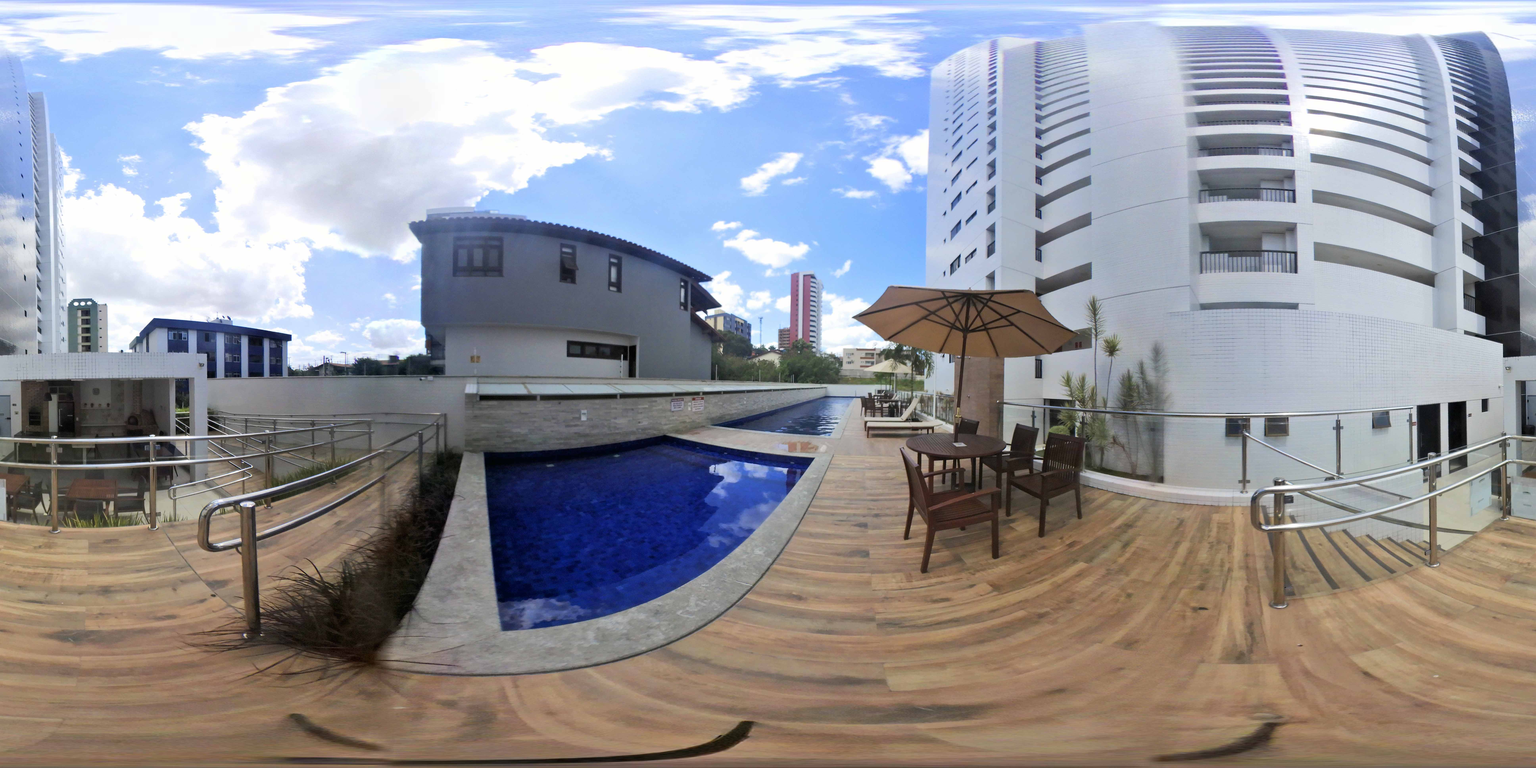
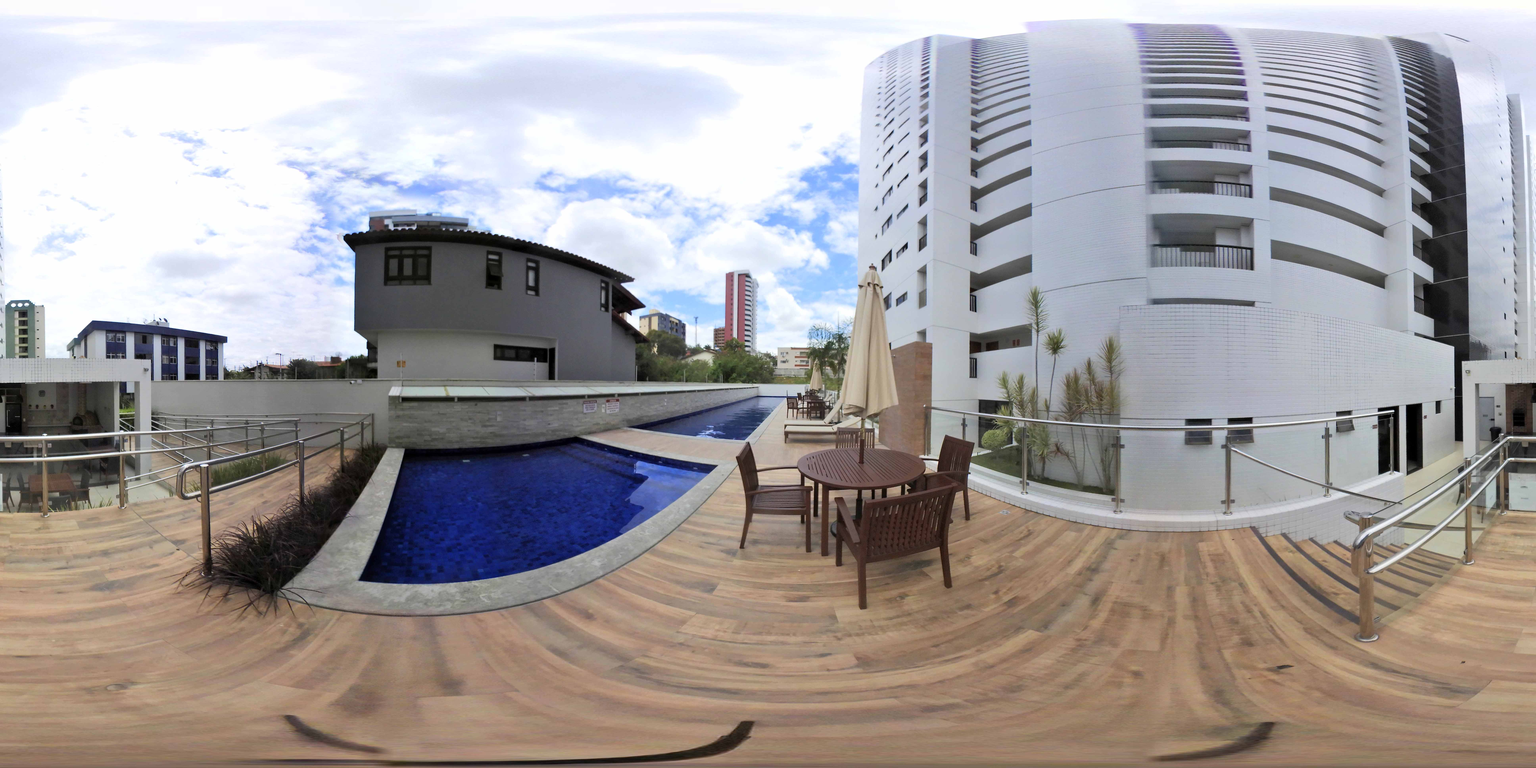
Final Commit

diff --git a/index.html b/index.html
@@ -365,7 +365,7 @@
 
     <!--Cena Piscina-->
     <a-entity class="cena" id="cenaPiscina" visible="false">
-      <a-sky src="#Piscina_1" radius="50" rotation="0 30 0"></a-sky>
+      <a-sky src="#Piscina_1" radius="50" rotation="0 20 0"></a-sky>
 
       <!--Ponto para Churrasqueira-->
       <a-entity position="5 1 -1" look-at="#cam" geometry="primitive: plane; width: 0.5; height: 0.5"
@@ -389,32 +389,32 @@
 
     <!--Cena Piscina Grande-->
     <a-entity class="cena" id="cenaPiscinaGrande" visible="false">
-      <a-sky src="#Piscina_2" radius="50" rotation="0 -90 0"></a-sky>
+      <a-sky src="#Piscina_2" radius="50" rotation="0 -130 0"></a-sky>
 
       <!--Ponto para Entrada Piscina-->
-      <a-entity position="6 1 -1" look-at="#cam">
-        <a-image src="#marco" width="0.4" height="0.2" color="#FFF" onclick="mudarCena('cenaPiscina')"
-          event-set__mouseenter="_event: mouseenter; scale: 1.2 1.2 1; color:#c5c5c5"
-          event-set__mouseleave="_event: mouseleave; scale: 1 1 1; color:#fff"
-          proxy-event="event: click; to: #cam; as: fade"></a-image>
-
-        <a-text text="width:  4;  value:  Entrada Piscina; align: center " position="0 -0.3 0"></a-text>
+      
+      <a-entity position="6 1 -0.5" look-at="#cam" geometry="primitive: plane; width: 0.5; height: 0.5"
+        material="opacity:0" event-set__mouseenter="scale: 1.1 1.1 1; color:#c5c5c5"
+        event-set__mouseleave="scale: 1 1 1; color:#fff" proxy-event="event: click; to: #cam; as: fade"
+        onclick="mudarCena('cenaPiscina')">
+        <a-image src="#marco" class="button" width="0.4" height="0.2" color="#FFF" position="0 0.1 0.02"></a-image>
+        <a-text text="width:  4;  value:  Entrada Piscina; align: center " position="0 -0.1 0.02"></a-text>
       </a-entity>
 
       <!--Ponto para Espaço Zen-->
-      <a-entity position="-3 1 -5" look-at="#cam">
-        <a-image src="#marco" width="0.4" height="0.2" color="#FFF" onclick="mudarCena('cenaZen')"
-          event-set__mouseenter="_event: mouseenter; scale: 1.2 1.2 1; color:#c5c5c5"
-          event-set__mouseleave="_event: mouseleave; scale: 1 1 1; color:#fff"
-          proxy-event="event: click; to: #cam; as: fade"></a-image>
-
-        <a-text text="width:  4;  value:  Area Zen; align: center " position="0 -0.3 0"></a-text>
+      
+      <a-entity position="-3 0.5 -5" look-at="#cam" geometry="primitive: plane; width: 0.5; height: 0.5"
+        material="opacity:0" event-set__mouseenter="scale: 1.1 1.1 1; color:#c5c5c5"
+        event-set__mouseleave="scale: 1 1 1; color:#fff" proxy-event="event: click; to: #cam; as: fade"
+        onclick="mudarCena('cenaZen')">
+        <a-image src="#marco" class="button" width="0.4" height="0.2" color="#FFF" position="0 0.1 0.02"></a-image>
+        <a-text text="width:  4;  value:  Area Zen; align: center " position="0 -0.1 0.02"></a-text>
       </a-entity>
     </a-entity>
 
     <!--Cena Area Zen-->
     <a-entity class="cena" id="cenaZen" visible="false">
-      <a-sky src="#Zen_1" radius="50" rotation="0 135 0"></a-sky>
+      <a-sky src="#Zen_1" radius="50" rotation="0 150 0"></a-sky>
 
       <!--Ponto para Entrada Piscina-->
       
